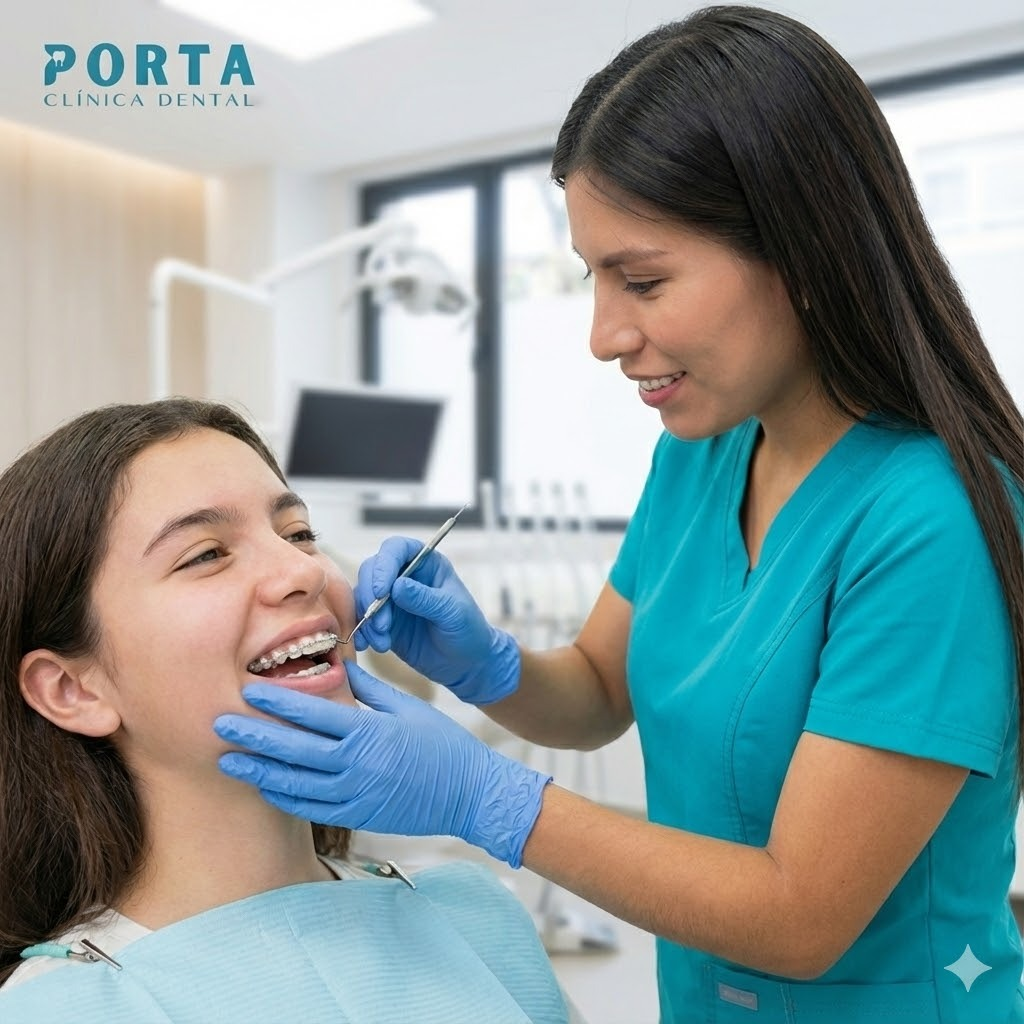
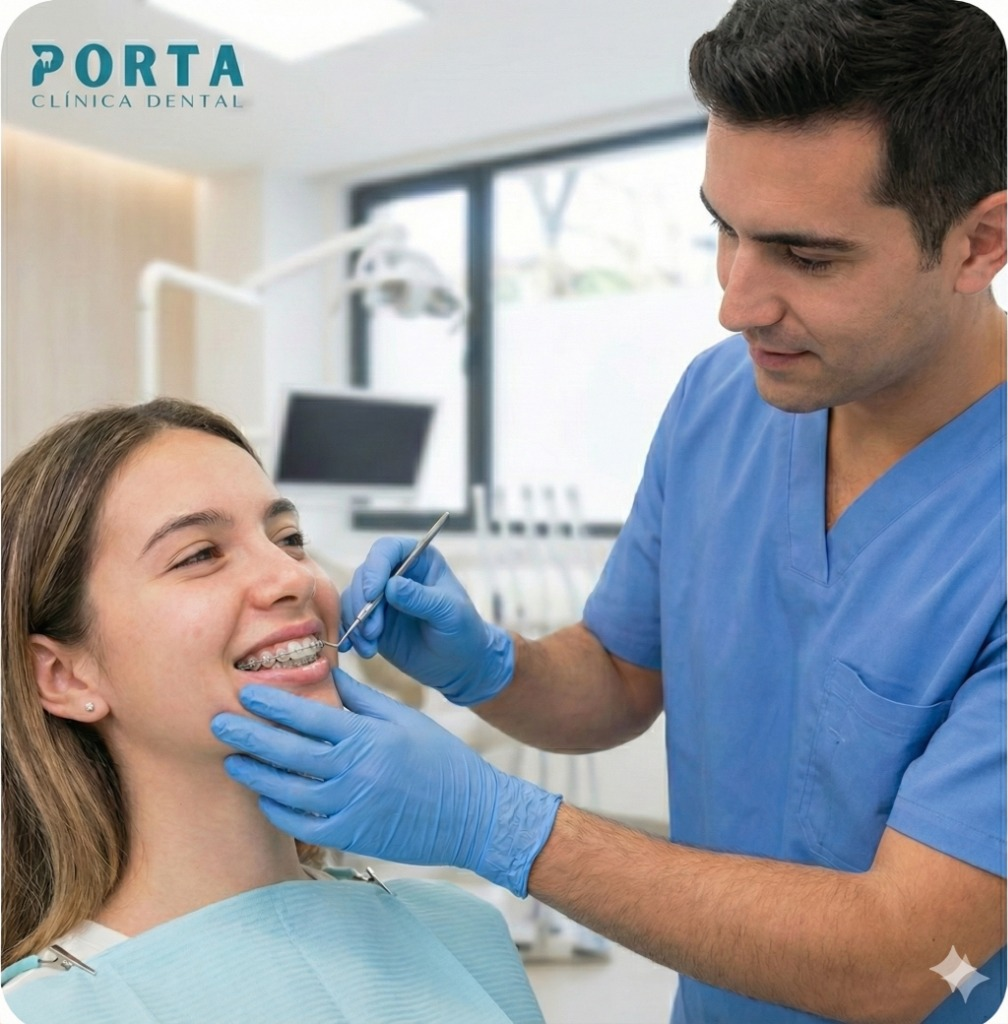
Fix Gemini API, update service images, improve contact link, and update footer year

diff --git a/src/components/sections/Contact.tsx b/src/components/sections/Contact.tsx
@@ -45,7 +45,7 @@ const Contact: React.FC = () => {
     <section id="contact" className="py-24" ref={sectionRef}>
       <div className="max-w-7xl mx-auto px-4 sm:px-6 lg:px-8">
         <div className="grid lg:grid-cols-2 gap-16">
-          {/* ... (previous code for text section) ... */}
+
           <div
             className={`transition-all duration-1000 ease-out transform ${isVisible ? 'opacity-100 translate-y-0' : 'opacity-0 translate-y-12'
               }`}
@@ -69,8 +69,14 @@ const Contact: React.FC = () => {
                   <svg className="w-6 h-6" fill="none" stroke="currentColor" viewBox="0 0 24 24"><path strokeLinecap="round" strokeLinejoin="round" strokeWidth="2" d="M3 5a2 2 0 012-2h3.28a1 1 0 01.948.684l1.498 4.493a1 1 0 01-.502 1.21l-2.257 1.13a11.042 11.042 0 005.516 5.516l1.13-2.257a1 1 0 011.21-.502l4.493 1.498a1 1 0 01.684.949V19a2 2 0 01-2 2h-1C9.716 21 3 14.284 3 6V5z" /></svg>
                 </div>
                 <div>
-                  <h4 className="font-bold text-porta-heading">Llámanos</h4> (original line 72, I will match context)
-                  <p className="text-gray-600">{CLINIC_INFO.phone}</p>
+                  <h4 className="font-bold text-porta-heading">Llámanos</h4>
+                  <a
+                    href={`tel:+${CLINIC_INFO.whatsapp}`}
+                    className="text-gray-600 hover:text-porta transition-colors font-medium"
+                    aria-label={`Llamar al ${CLINIC_INFO.phone}`}
+                  >
+                    {CLINIC_INFO.phone}
+                  </a>
                 </div>
               </div>
 

diff --git a/src/services/geminiService.ts b/src/services/geminiService.ts
@@ -11,7 +11,7 @@ export async function getDentalAssistantResponse(history: string) {
 
   try {
     const genAI = new GoogleGenerativeAI(apiKey);
-    const model = genAI.getGenerativeModel({ model: "gemini-pro" });
+    const model = genAI.getGenerativeModel({ model: "gemini-1.5-flash" });
 
     const instructions = `
       Rol: Asistente de "PORTA Clínica Dental".
@@ -40,6 +40,6 @@ export async function getDentalAssistantResponse(history: string) {
 
   } catch (error: any) {
     console.error("Error Gemini:", error);
-    return `Lo siento, hubo un problema técnico (${error.message}). Por favor escríbenos al WhatsApp.`;
+    return "¡Ups! Parece que mi conexión está un poco lenta. 😅 Por favor, contáctanos directamente por WhatsApp para agendar tu cita más rápido. 🦷✨";
   }
 }

diff --git a/src/constants/index.tsx b/src/constants/index.tsx
@@ -87,7 +87,7 @@ export const SERVICES = [
     id: 'rehabilitacion',
     title: 'Rehabilitación (Prótesis, Coronas)',
     description: 'Devolvemos el tiempo atrás. Reconstruimos piezas dañadas o perdidas con materiales tan naturales que olvidarás cuál es el diente real y cuál es el que hicimos nosotros.',
-    image: '/images/tratamientos-generales.jpg',
+    image: '/images/rehabilitacion.jpg',
     icon: (
       <svg className="w-8 h-8" fill="none" stroke="currentColor" viewBox="0 0 24 24">
         <path strokeLinecap="round" strokeLinejoin="round" strokeWidth="1.5" d="M19 11H5m14 0a2 2 0 012 2v6a2 2 0 01-2 2H5a2 2 0 01-2-2v-6a2 2 0 012-2m14 0V9a2 2 0 00-2-2M5 11V9a2 2 0 012-2m0 0V5a2 2 0 012-2h6a2 2 0 012 2v2M7 7h10" />

diff --git a/src/components/layout/Footer.tsx b/src/components/layout/Footer.tsx
@@ -43,7 +43,7 @@ const Footer: React.FC = () => {
         </div>
 
         <div className="pt-8 border-t border-gray-800 flex flex-col md:flex-row justify-between items-center gap-4 text-sm text-gray-500">
-          <p>© 2024 PORTA Clínica Dental. Todos los derechos reservados.</p>
+          <p>© 2026 PORTA Clínica Dental. Todos los derechos reservados.</p>
           <p>Diseñado para Tingo María, Perú.</p>
         </div>
       </div>
